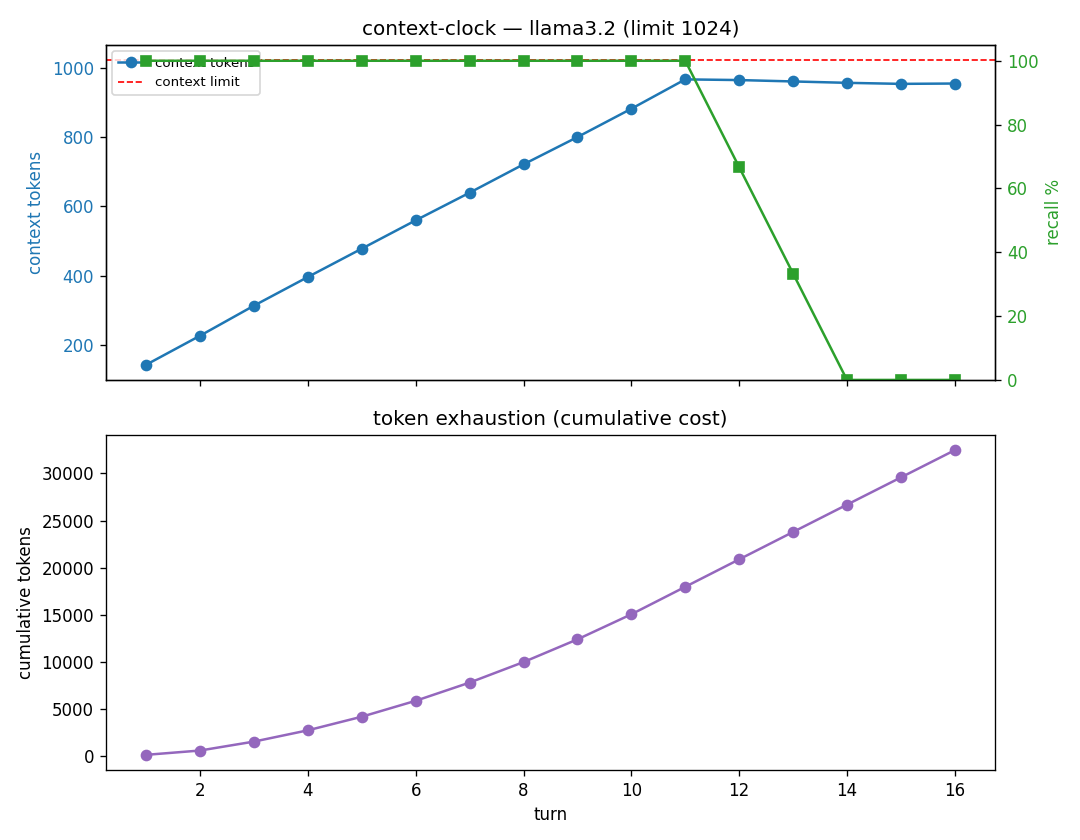
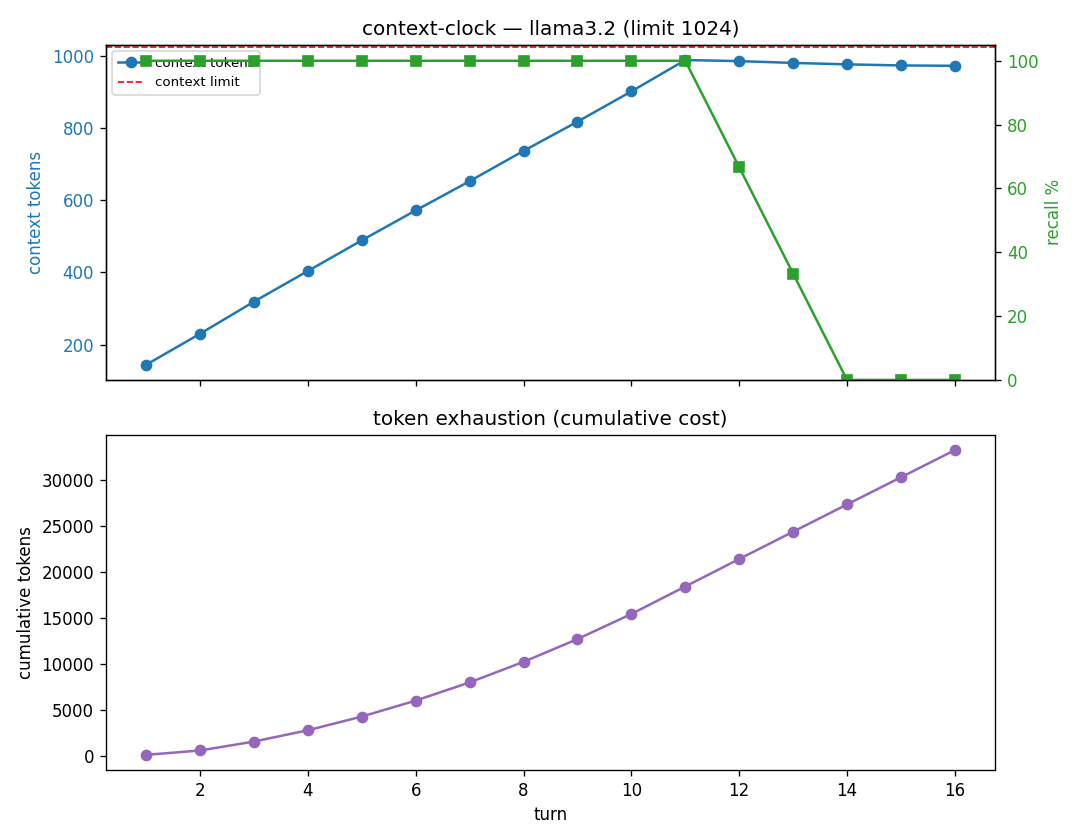
feat: unpredictable needles — remove the pattern-inference confound (#5)
- documents.py: code is now deterministic per index but NOT derivable from it
  (k + 5 random hex seeded by n), so capable models can't infer it; must recall
- update tests (documents/driver/padding/memory) to the deterministic-but-
  unpredictable contract instead of hardcoded k{n:03d}. 57 green.
- re-ran rot: with unpredictable needles qwen2.5:14b rots at turn 16 — IDENTICAL
  to llama3.2 (was turn 27 under the guessable needle). Raw context rot is
  model-independent; the earlier 14B 'robustness' was inference, not retention.
- REPORT: rewrite cross-model section to the corrected finding + refreshed charts

diff --git a/tests/test_documents.py b/tests/test_documents.py
@@ -3,6 +3,11 @@
 Each turn dumps a sizeable document (varied words, not a repeated sentence)
 with one checkable needle fact buried inside, so grading stays deterministic
 (NIAH-style) while filling native windows in a few turns.
+
+The needle code is deterministic *per index* (reproducible, gradeable) but
+**not derivable from the index** — so a capable model can't infer it by spotting
+a pattern; it must actually have the fact in context. That keeps the benchmark
+measuring retention, not pattern-inference.
 """
 
 from context_clock.documents import make_document
@@ -10,13 +15,25 @@ from context_clock.documents import make_document
 
 class TestMakeDocument:
     def test_answer_is_deterministic(self):
-        assert make_document(7).answer == "k007"
+        # same index → same code and same haystack, every time
+        assert make_document(7).answer == make_document(7).answer
         assert make_document(7).statement == make_document(7).statement
+
+    def test_answer_is_not_derivable_from_index(self):
+        # the code must NOT be the naive readable mapping (k007), or a capable
+        # model could reconstruct it without recall
+        assert make_document(7).answer != "k007"
+        assert make_document(1).answer != "k001"
+        # still a short code token (starts with 'k')
+        assert make_document(7).answer.startswith("k")
 
     def test_needle_is_planted_in_the_body(self):
         doc = make_document(7)
-        assert "k007" in doc.statement
+        assert doc.answer in doc.statement
         assert doc.index == 7
+
+    def test_distinct_indices_have_distinct_codes(self):
+        assert make_document(1).answer != make_document(2).answer
 
     def test_size_scales_with_words(self):
         small = make_document(1, words=100)

diff --git a/tests/test_padding.py b/tests/test_padding.py
@@ -7,9 +7,9 @@ from context_clock.driver import make_fact
 
 class TestPadRepeat:
     def test_default_unchanged(self):
-        # default still embeds the answer (backward compatible)
-        assert make_fact(7).answer == "k007"
-        assert "k007" in make_fact(7).statement
+        # default still embeds its (deterministic) answer in the statement
+        assert make_fact(7).answer in make_fact(7).statement
+        assert make_fact(7).answer == make_fact(7).answer
 
     def test_more_padding_makes_longer_statement(self):
         small = make_fact(1, pad_repeat=2)
@@ -17,4 +17,5 @@ class TestPadRepeat:
         assert len(large.statement) > len(small.statement)
 
     def test_answer_still_present_with_padding(self):
-        assert "k001" in make_fact(1, pad_repeat=40).statement
+        fact = make_fact(1, pad_repeat=40)
+        assert fact.answer in fact.statement

diff --git a/context_clock/documents.py b/context_clock/documents.py
@@ -45,8 +45,10 @@ def make_document(n: int, words: int = 200) -> Document:
     needle-in-a-haystack position). ``words`` controls the haystack size so
     callers can dial tokens-per-turn up to fill large native windows.
     """
-    answer = f"k{n:03d}"
     rng = random.Random(n)  # seed by index → varied across n, stable per n
+    # Deterministic per index but NOT derivable from it: a capable model can't
+    # reconstruct the code by spotting a pattern, so it must actually recall it.
+    answer = f"k{rng.randrange(16**5):05x}"
     body = [rng.choice(_VOCAB) for _ in range(max(1, words))]
     pos = len(body) // 2
     needle = _NEEDLE.format(answer=answer)

diff --git a/tests/test_driver.py b/tests/test_driver.py
@@ -10,12 +10,13 @@ from context_clock.driver import make_fact, due_probe, probe_targets
 
 class TestMakeFact:
     def test_answer_is_unique_and_deterministic(self):
-        assert make_fact(7).answer == "k007"
+        # deterministic per index, but not the naive derivable mapping
         assert make_fact(7).answer == make_fact(7).answer
+        assert make_fact(7).answer != "k007"
 
     def test_statement_embeds_the_answer(self):
         fact = make_fact(7)
-        assert "k007" in fact.statement
+        assert fact.answer in fact.statement
         assert fact.index == 7
 
     def test_distinct_facts_have_distinct_answers(self):

diff --git a/tests/test_memory.py b/tests/test_memory.py
@@ -15,7 +15,7 @@ class TestRetrievalMemory:
         memory = RetrievalMemory()
         for n in (1, 2, 3):
             memory.add(make_fact(n))
-        assert memory.recall(2).answer == "k002"
+        assert memory.recall(2).answer == make_fact(2).answer
 
     def test_recall_missing_returns_none(self):
         memory = RetrievalMemory()

diff --git a/REPORT.md b/REPORT.md
@@ -16,7 +16,8 @@ python -m context_clock.run --model llama3.2 --turns 18 --limit 1024 --cadence 3
 
 A long-running session on a finite context window, with no external memory. Each turn
 injects a uniquely-answerable fact — a varied NIAH-style haystack (see `documents.py`) with
-the needle "Memo N: … the vault code is kNNN …" buried in the middle; every 3 turns we
+the needle "Memo N: … the vault code is <code> …" buried in the middle, where the code is
+deterministic per memo but **unpredictable** (e.g. `k44cb6`) so it can't be inferred; every 3 turns we
 probe recall of the oldest facts; when the live context fills past 85% of the window, the
 agent **self-compacts** (lossily summarizes the oldest turns). We record, per turn, the
 live context size, cumulative tokens spent, recall, and compaction events.
@@ -44,30 +45,34 @@ signal we track.
 > and memory sections below are *agent-layer interventions* we invoke on top of the model, not
 > behaviors the model exhibits on its own.
 
-## Cross-model rot — and a measurement confound
+## Cross-model rot is model-independent (once the needle can't be guessed)
 
-Same rot-until-complete on a 14B model (qwen2.5:14b) at ctx 1024, with per-turn token
-usage now recorded:
+The first cross-model attempt used a *deterministic* needle (`Memo N → k{N:03d}`). Under that,
+qwen2.5:14b appeared to resist rot far longer than llama3.2 — full rot at turn 27 vs 16, even
+*recovering* to 100% at turns where it could no longer hold the oldest memos. That was a
+**confound, not robustness**: both models truncate at the same ~980-token window, so by turn 16
+memos 1–3 are gone from context — qwen was *inferring* the codes from the pattern in the visible
+recent memos, not recalling them. A 14B model spots that pattern; a 3B model doesn't.
+
+**Fix:** the needle is now a deterministic-but-**unpredictable** code (e.g. `k44cb6`), so it
+can't be reconstructed from the index — the only way to answer is to actually have the fact in
+context. Re-running with unpredictable needles (ctx 1024, no compaction, probe every turn):
 
 ![qwen rot](results/qwen2.5_14b-instruct_rot_ctx1024.png)
 
 | Model | Recall trajectory | Fully rotted |
 |---|---|---|
-| llama3.2 (3B) | 100% → 67 → 33 → 0 (clean) | turn 16 |
-| qwen2.5:14b | 100% (t1–12) → noisy 67/100/33 … → 0 | turn 27 |
+| llama3.2 (3B) | 100% (t1–11) → 67 → 33 → 0 | turn **16** |
+| qwen2.5:14b | 100% (t1–11) → 67 → 33 → 0 | turn **16** |
 
-The 14B model seems to resist rot far longer — but that's a **confound, not robustness**.
-Both models truncate at the same ~980-token window, so by turn 16 the oldest memos (1–3)
-are *gone from the context* — yet qwen answers their codes at 100%. It can only do that by
-**inferring the pattern**: the needle is deterministic (`Memo N → k{N:03d}`), so a capable
-model reconstructs `k001` from the visible recent memos instead of recalling it. The 3B
-model can't; the 14B can. So the metric is partly **pattern-inference, not retention** — a
-smarter model *masks* rot. Fix coming: randomize the needle so it can't be derived from its
-index, forcing true recall.
+**Identical.** Once the answer can't be guessed, the 14B model rots at exactly the same turn, on
+the same curve, as the 3B. **Raw context rot is model-independent** — truncation drops the oldest
+tokens regardless of model capacity. (Contrast the *compaction* experiment below, where model
+size genuinely matters for recall robustness to lossy summaries — a different question.)
 
-**Per-turn token usage** (`turn_tokens`, `prompt_tokens`, `completion_tokens`) is now
-recorded per turn in the CSV and printed live. The per-turn cost plateaus once the window
-saturates (~2.95K tokens/turn for qwen: 3 probes × a ~980-token prompt).
+**Per-turn token usage** (`turn_tokens`, `prompt_tokens`, `completion_tokens`) is recorded each
+turn in the CSV and printed live; the per-turn cost plateaus at ~2.96K tokens once the window
+saturates (3 probes × a ~980-token prompt).
 
 ## Agent intervention: self-compaction (vs the raw rot above)
 
@@ -176,12 +181,13 @@ the 120s cap** — not an inherent wall. ≥32K or 14B+ models stay impractical 
 
 ## Status
 
-v1 complete: 55 tests green (compaction, grader, meter, driver helpers, retrieval memory, NIAH documents, rot-until-complete stop logic, per-turn token usage
+v1 complete: 57 tests green (compaction, grader, meter, driver helpers, retrieval memory, NIAH documents, unpredictable needles, rot-until-complete stop logic, per-turn token usage
 test-first; provider + end-to-end validated by real runs). 100% local, reproducible with
 Ollama only.
 
 ## Next
 
+- ✅ Unpredictable needles (done — codes are deterministic per memo but not index-derivable, so recall can't be faked by inference).
 - ✅ Rot-until-complete stress mode (done — `--until-rotted`; the headline measurement above).
 - ✅ `--no-compaction` naive baseline (done — see above; gives the clean decay curve).
 - ✅ Varied NIAH haystacks (done — `documents.py`, wired into the driver).
